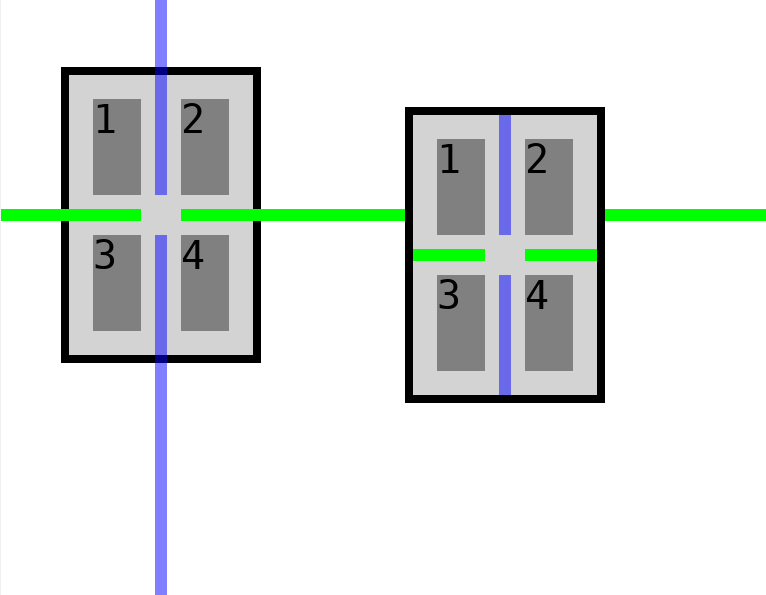
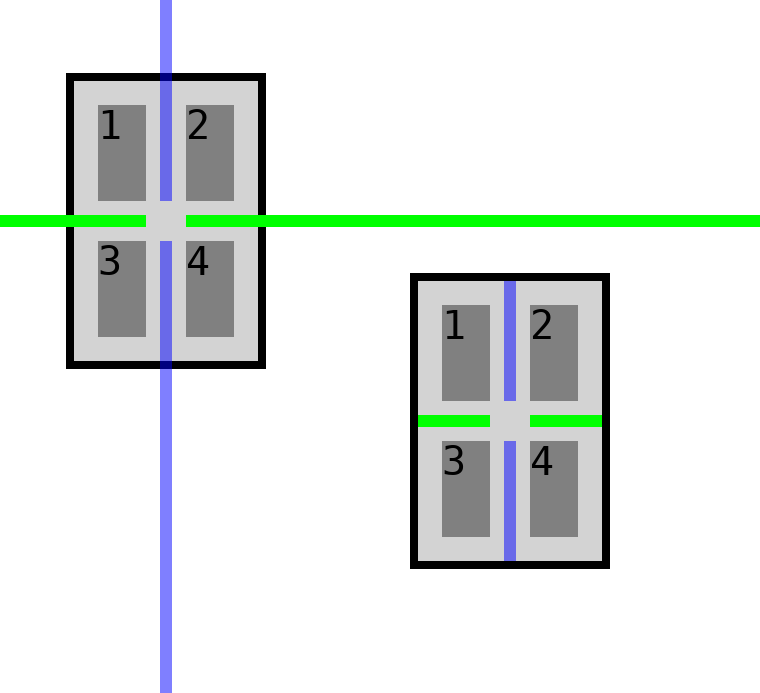
Add files via upload

Changed region(s): [[0.0, 0.0, 1.0, 1.0]]

diff --git a/css-gap-decorations/Overview.html b/css-gap-decorations/Overview.html
@@ -11,7 +11,7 @@
   <link href="https://www.w3.org/StyleSheets/TR/2016/W3C-ED" rel="stylesheet" type="text/css">
   <meta content="Bikeshed version d7036035b, updated Fri Oct 8 17:07:11 2021 -0700" name="generator">
   <link href="https://matspalmgren.github.io/css-gap-decorations/Overview.html" rel="canonical">
-  <meta content="2d08af35415631624a0f2ef432161094ae847330" name="document-revision">
+  <meta content="c8229abd4a308df0d39ed7c206c65971ce020319" name="document-revision">
 <style>/* style-autolinks */
 
 .css.css, .property.property, .descriptor.descriptor {
@@ -785,16 +785,16 @@ on screen, on paper, etc.
       <li><a href="#row-rule"><span class="secno">4.2</span> <span class="content">The <span class="property">row-rule</span> Shorthand</span></a>
      </ol>
     <li>
-     <a href="#column-rule-align"><span class="secno">5</span> <span class="content">Rule Alignment</span></a>
+     <a href="#rule-align"><span class="secno">5</span> <span class="content">Rule Alignment</span></a>
      <ol class="toc">
-      <li><a href="#column-rule-align①"><span class="secno">5.1</span> <span class="content">The <span class="property">column-rule-align</span> and <span class="property">row-rule-align</span> Properties</span></a>
+      <li><a href="#column-rule-align"><span class="secno">5.1</span> <span class="content">The <span class="property">column-rule-align</span> and <span class="property">row-rule-align</span> Properties</span></a>
       <li><a href="#column-rule-edge-align"><span class="secno">5.2</span> <span class="content">The <span class="property">column-rule-edge-align</span> and <span class="property">row-rule-edge-align</span> Properties</span></a>
      </ol>
     <li>
-     <a href="#column-rule-extent"><span class="secno">6</span> <span class="content">Rule Extent</span></a>
+     <a href="#rule-extent"><span class="secno">6</span> <span class="content">Rule Extent</span></a>
      <ol class="toc">
       <li>
-       <a href="#column-rule-extent①"><span class="secno">6.1</span> <span class="content">The <span class="property">column-rule-extent</span> and <span class="property">row-rule-extent</span> Properties</span></a>
+       <a href="#column-rule-extent"><span class="secno">6.1</span> <span class="content">The <span class="property">column-rule-extent</span> and <span class="property">row-rule-extent</span> Properties</span></a>
        <ol class="toc">
         <li>
          <a href="#rule-extent-grid"><span class="secno">6.1.1</span> <span class="content">Grid Containers</span></a>
@@ -1345,7 +1345,7 @@ on screen, on paper, etc.
    <aside class="example" id="example-3020da77">
     <a class="self-link" href="#example-3020da77"></a> This <a href="examples/grid-longitudinal-002.html">example</a> demonstrates
         that the inset properties can be animated and that they are relative the <a data-link-type="dfn" href="#rule-containing-rectangle①" id="ref-for-rule-containing-rectangle①①⓪">rule containing rectangle</a>,
-        which itself depends on the <a href="#column-rule-align">rule’s alignment</a> in its longitudinal axis.
+        which itself depends on the <a href="#rule-align">rule’s alignment</a> in its longitudinal axis.
         Note that the longitudinal insets in this example are definite and not animated. The reason
         they follow the animated lateral position of the rule in the orthogonal axis is that they have <a href="#column-rule-align"><span class="css">rule</span> alignment</a>. 
     <figure>
@@ -1613,8 +1613,8 @@ on screen, on paper, etc.
     both axes, like so: 'rule-foo: <span class="production">&lt;row-rule-foo></span> <span class="production">&lt;column-rule-foo></span>?'.
     As usual, we have to be careful with the separator though, to make it
     forward-compatible with any changes we might want to make...</p>
-   <h2 class="heading settled" data-level="5" id="column-rule-align"><span class="secno">5. </span><span class="content">Rule Alignment</span><a class="self-link" href="#column-rule-align"></a></h2>
-   <h3 class="heading settled" data-level="5.1" id="column-rule-align①"><span class="secno">5.1. </span><span class="content">The <a class="property" data-link-type="propdesc" href="#propdef-column-rule-align" id="ref-for-propdef-column-rule-align">column-rule-align</a> and <a class="property" data-link-type="propdesc" href="#propdef-row-rule-align" id="ref-for-propdef-row-rule-align">row-rule-align</a> Properties</span><a class="self-link" href="#column-rule-align①"></a></h3>
+   <h2 class="heading settled" data-level="5" id="rule-align"><span class="secno">5. </span><span class="content">Rule Alignment</span><a class="self-link" href="#rule-align"></a></h2>
+   <h3 class="heading settled" data-level="5.1" id="column-rule-align"><span class="secno">5.1. </span><span class="content">The <a class="property" data-link-type="propdesc" href="#propdef-column-rule-align" id="ref-for-propdef-column-rule-align">column-rule-align</a> and <a class="property" data-link-type="propdesc" href="#propdef-row-rule-align" id="ref-for-propdef-row-rule-align">row-rule-align</a> Properties</span><a class="self-link" href="#column-rule-align"></a></h3>
    <table class="def propdef" data-link-for-hint="column-rule-align">
     <tbody>
      <tr>
@@ -1734,8 +1734,8 @@ on screen, on paper, etc.
     so they align with the inline axis gap edges.</p>
    <p class="issue" id="issue-13842b6f"><a class="self-link" href="#issue-13842b6f"></a> Are there use cases for other box-related edge attachment points?
     e.g. 'padding | padding-center | padding-over | border...'</p>
-   <h2 class="heading settled" data-level="6" id="column-rule-extent"><span class="secno">6. </span><span class="content">Rule Extent</span><a class="self-link" href="#column-rule-extent"></a></h2>
-   <h3 class="heading settled" data-level="6.1" id="column-rule-extent①"><span class="secno">6.1. </span><span class="content">The <a class="property" data-link-type="propdesc" href="#propdef-column-rule-extent" id="ref-for-propdef-column-rule-extent">column-rule-extent</a> and <a class="property" data-link-type="propdesc" href="#propdef-row-rule-extent" id="ref-for-propdef-row-rule-extent">row-rule-extent</a> Properties</span><a class="self-link" href="#column-rule-extent①"></a></h3>
+   <h2 class="heading settled" data-level="6" id="rule-extent"><span class="secno">6. </span><span class="content">Rule Extent</span><a class="self-link" href="#rule-extent"></a></h2>
+   <h3 class="heading settled" data-level="6.1" id="column-rule-extent"><span class="secno">6.1. </span><span class="content">The <a class="property" data-link-type="propdesc" href="#propdef-column-rule-extent" id="ref-for-propdef-column-rule-extent">column-rule-extent</a> and <a class="property" data-link-type="propdesc" href="#propdef-row-rule-extent" id="ref-for-propdef-row-rule-extent">row-rule-extent</a> Properties</span><a class="self-link" href="#column-rule-extent"></a></h3>
    <table class="def propdef" data-link-for-hint="column-rule-extent">
     <tbody>
      <tr>
@@ -2091,7 +2091,7 @@ on screen, on paper, etc.
     </figure>
    </aside>
    <h2 class="heading settled" data-level="7" id="rule-containing-rectangle"><span class="secno">7. </span><span class="content">The Rule Containing Rectangle</span><a class="self-link" href="#rule-containing-rectangle"></a></h2>
-   <p>The <dfn class="dfn-paneled" data-dfn-type="dfn" data-noexport id="rule-containing-rectangle①">rule containing rectangle</dfn> is formed by the <a href="#column-rule-extent">rule extent</a> and <a href="#column-rule-align">alignment</a> in the <a data-link-type="dfn" href="#longitudinal-axis" id="ref-for-longitudinal-axis⑦">longitudinal axis</a>, and by the size of the <a href="https://drafts.csswg.org/css-align/#gutter">gutter</a> in the <a data-link-type="dfn" href="#lateral-axis" id="ref-for-lateral-axis④">lateral axis</a>.
+   <p>The <dfn class="dfn-paneled" data-dfn-type="dfn" data-noexport id="rule-containing-rectangle①">rule containing rectangle</dfn> is formed by the <a href="#rule-extent">rule extent</a> and <a href="#rule-align">alignment</a> in the <a data-link-type="dfn" href="#longitudinal-axis" id="ref-for-longitudinal-axis⑦">longitudinal axis</a>, and by the size of the <a href="https://drafts.csswg.org/css-align/#gutter">gutter</a> in the <a data-link-type="dfn" href="#lateral-axis" id="ref-for-lateral-axis④">lateral axis</a>.
     (For clarity, the size of the gutter is calculated from the <a href="https://drafts.csswg.org/css-align/#gaps">gap</a> properties plus any extra space contributed by <a href="https://drafts.csswg.org/css-align/#distribution-values">alignment distribution</a> but does not include any item margins.)</p>
    <p>It is important to note that the <a data-link-type="dfn" href="#rule-containing-rectangle①" id="ref-for-rule-containing-rectangle①①④">rule containing rectangle’s</a> size in an axis isn’t affected by any of
     the <a href="#column-rule-lateral-inset">inset properties</a> <i>in the same axis</i> as that would lead to a circular
@@ -2121,7 +2121,7 @@ on screen, on paper, etc.
     They are painted after (on top of) the element’s border.
     All column rules for an element are painted first, then all of its row rules.
     The rules for an axis are painted in the order they were generated by
-    the <a href="#column-rule-extent">rule extent</a> algorithms described above.
+    the <a href="#rule-extent">rule extent</a> algorithms described above.
     Typically from the logical start to the end of the axis.</p>
    <p>For table layout, all the <a data-link-type="dfn" href="https://drafts.csswg.org/css-tables-3/#table" id="ref-for-table①⑦">table</a> rules (in both axes)
     are painted before the rules for the row-groups.  The painting order between
@@ -2142,7 +2142,7 @@ on screen, on paper, etc.
         Both grids have large negative insets to extend the rules outside of the container.
         The right grid has <a class="css" data-link-type="propdesc" href="https://drafts.csswg.org/css-overflow-3/#propdef-overflow" id="ref-for-propdef-overflow">overflow: hidden</a> which clips its rules at the padding area edge. 
     <figure>
-      <img height="595" src="media/grid-longitudinal-003.png" width="766"> 
+      <img height="693" src="media/grid-longitudinal-003.png" width="760"> 
      <figcaption> Examples of rule overflow and clipping. </figcaption>
     </figure>
    </aside>

diff --git a/css-gap-decorations/examples/grid-longitudinal-003.html b/css-gap-decorations/examples/grid-longitudinal-003.html
@@ -42,5 +42,5 @@ pre {
 <pre>Both grids have '*-edge-inset: min(-100vw, -100vh)'.
 The right grid has 'overflow: hidden' which clips its rules at the padding edge.</pre>
   <div class="grid test1"><x>1</x><x>2</x><x>3</x><x>4</x></div>
-  <div class="grid test2" style="top:20px "><x>1</x><x>2</x><x>3</x><x>4</x></div>
+  <div class="grid test2" style="top:100px "><x>1</x><x>2</x><x>3</x><x>4</x></div>
 </body>
